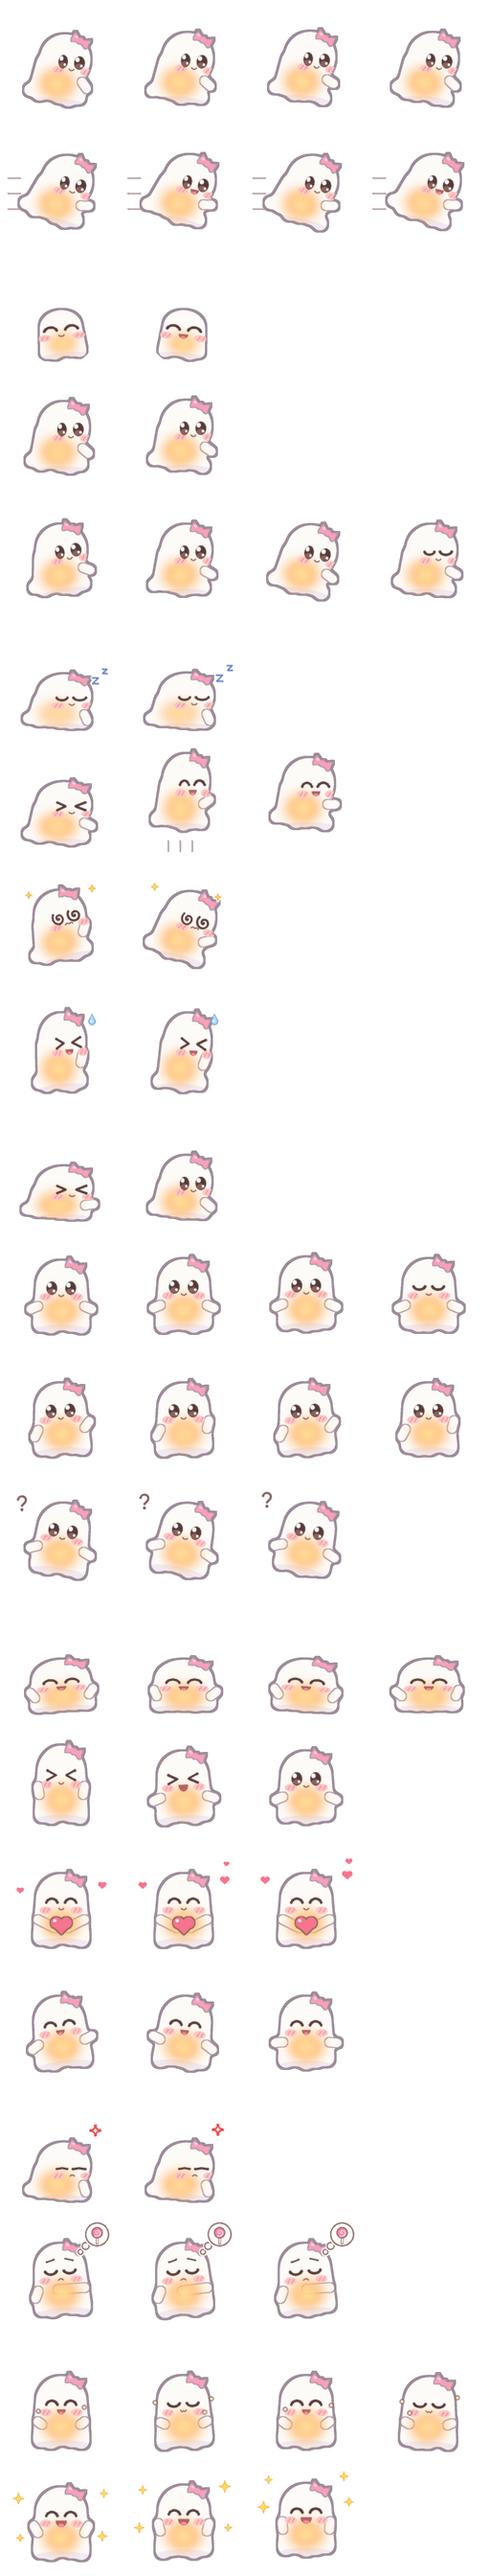
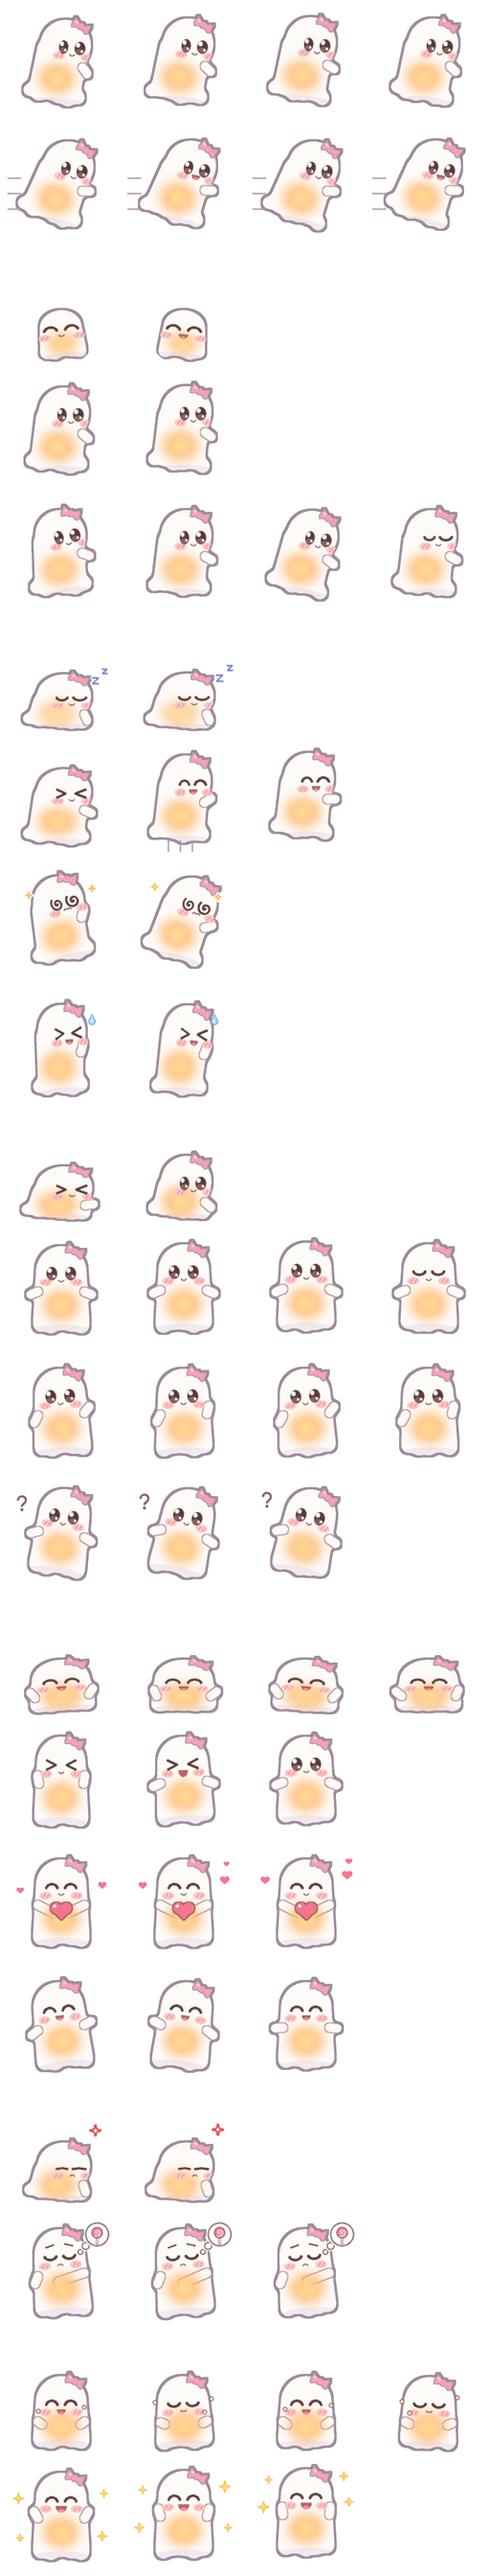
tune(art): ghost's sheet hangs a little longer
While floating, the lower sheet hangs 15 % of body height longer at every
stage (head, face, arms, glow and scale unchanged; hover foot line stays at
the same place). Resting poses and roll keep the compact skirt; eat keeps
the original length so the mouth stays over the bowl inside the cell.

Claude-Session: https://claude.ai/code/session_01QTKFeeLBUNBZhj6R6jJCZF

diff --git a/tools/draw_halloween.py b/tools/draw_halloween.py
@@ -10,6 +10,7 @@
       단계: 아기 = 잎 달린 미니 호박 → 유아 잎 + 짧은 꼭지 → 어린이 꼭지 덩굴손 → 청소년 골 깊게 + 큰 덩굴 + 잎 → 어른 작은 마녀 모자.
 유령: 반투명 우유빛 몸(알파 ≈ 0.88), 배 속의 따뜻한 주황 빛, 반짝이 두 개 큰 눈 + 볼터치 + 작은 입, 짤막한 팔, 물결치는 치맛단.
       둥실 난다 (locomotion fly, 꿀벌보다 느리게). 내려앉는 동작: sleep · annoyed · land.
+      떠 있을 때는 치마(흰 천 하단)가 몸 높이의 15%만큼 더 길게 늘어진다 (쉬는 동작은 짧게).
       단계: 아기 = 짧은 이불 덩어리 → 치마가 길어짐 → 어린이 머리 꼭지 → 청소년 → 어른 리본.
 eat에는 밥그릇이 없다 (앱의 소품 창이 그릇을 띄운다): 입이 그릇 밥 더미 바로 위 (프레임 y ≈ 84).
 """
@@ -61,6 +62,12 @@ GH_STAGE = {
     4: dict(r=29, L=47, n=5, arm=1.05, curl=False, bow=True),
 }
 GH_EYE = 1.5  # 유령 눈은 크게 (반짝이 두 개 큰 눈)
+SKIRT_LONG = 0.15  # 떠 있을 때 치마를 몸 높이(2.3r + L)의 15%만큼 더 길게 늘어뜨린다 (머리·얼굴 크기는 그대로)
+
+
+def _skirt(st):
+    """떠 있는 유령의 치마 길이 (머리 중심 → 단)."""
+    return st["L"] + SKIRT_LONG * (2.3 * st["r"] + st["L"])
 
 
 def _pk():
@@ -367,11 +374,13 @@ def gh_face(fcx, fcy, eyes, mouth, brow, side):
 
 def ghost(sp, *, side=False, bottom=None, cx=64.0, sq=(1.0, 1.0), rot=0.0, eyes="dot", mouth=None, brow=None,
           arms=None, phase=0, rest=False, trail=1.0, lit=1.0, fx=(), held=(), props=(), trim=False, size=1.0, circle=None,
-          face_dy=0.0, top=()):
+          face_dy=0.0, top=(), short=False):
     """유령 한 장. bottom: 치맛단 아래끝 y (기본: 떠 있음 112 · rest = 바닥에 내려앉음) · phase: 단 물결 ·
     trail: 옆모습 치마 뒤로 날림 · arms: [(side, 각도 | 손끝)]."""
     st = _gh()
-    r, Ln = st["r"] * size, st["L"] * size * (0.82 if rest else 1.0)
+    r = st["r"] * size
+    # 쉬는 동작·공 모양은 짧게 · short: 원래 길이 (eat — 입이 그릇 위에 고정이라 긴 치마는 칸 밖으로 나간다, 단은 그릇이 가림)
+    Ln = size * (st["L"] * 0.82 if rest else st["L"] if (trim or short) else _skirt(st))
     br = r * 0.3
     if bottom is None:
         bottom = FLOOR - 0.5 if rest else 112.0
@@ -558,8 +567,8 @@ def hop(sp, i):
             return ghost(sp, side=True, bottom=116, sq=(1.08, 0.88), eyes="tight", phase=0)
         if i == 1:
             lines = [([L([(x, 110), (x, 122)], 1.8)], SPEED, 0) for x in (46, 60, 74)]
-            return ghost(sp, side=True, bottom=100, sq=(0.92, 1.08), eyes="happy", mouth="open", arms=[(1, 120)], phase=1, fx=lines)
-        return ghost(sp, side=True, bottom=98, eyes="happy", mouth="open", arms=[(1, 90)], phase=2)
+            return ghost(sp, side=True, bottom=114, sq=(0.97, 1.02), eyes="happy", mouth="open", arms=[(1, 120)], phase=1, fx=lines)
+        return ghost(sp, side=True, bottom=109, eyes="happy", mouth="open", arms=[(1, 90)], phase=2)
     if i == 0:
         return pumpkin(sp, side=True, sq=(1.1, 0.86), eyes="tight", stem=10, feet=((-2, 0), (2, 0)), arms=[(1, 15)])
     if i == 1:
@@ -582,7 +591,7 @@ def dragged(sp, i):
     """잡혀서 대롱대롱: 호박은 꼭지를 잡혀서 · 유령은 머리 꼭대기를 잡혀서 — 발·치마가 아래로 축, 땀."""
     s = [-1, 1][i]
     if _is_ghost(sp):
-        return ghost(sp, side=True, bottom=118, sq=(0.92, 1.1), rot=4 * s, eyes="tight", mouth="open", arms=[(1, 160)], phase=i,
+        return ghost(sp, side=True, bottom=122, sq=(0.94, 1.05), rot=4 * s, eyes="tight", mouth="open", arms=[(1, 160)], phase=i,
                      trail=0.4, fx=sweat_fx(100, 34))
     return pumpkin(sp, side=True, bottom=FLOOR - 14, rot=5 * s, eyes="tight", mouth="open", stem=-4 * s,
                    feet=((-3 + 2 * s, 4), (3 + 2 * s, 5)), arms=[(1, 150)], fx=sweat_fx(104, 40))
@@ -648,7 +657,7 @@ def belly(sp, i):
 
 def stretch(sp, i):
     if i == 0:
-        return _front(sp, **_kw(sp, i, sq=(0.94, 1.08), eyes="tight", arms=[(-1, 170), (1, 170)], stem=-6))
+        return _front(sp, **_kw(sp, i, **_bob(sp, -3), sq=(0.96, 1.03) if _is_ghost(sp) else (0.94, 1.08), eyes="tight", arms=[(-1, 170), (1, 170)], stem=-6))
     if i == 1:
         return _front(sp, **_kw(sp, i, eyes="tight", mouth="yawn", arms=[(-1, 70), (1, 70)], rot=-3, stem=4))
     return _front(sp, **_kw(sp, i))
@@ -660,7 +669,7 @@ def heart(sp, i):
         hs.append(heart_fx(114, 18 - 3 * i, 2.6 + 0.6 * i))
     if _is_ghost(sp):
         st = _gh()
-        hy = 112 - st["r"] * 0.3 - st["L"] + min(st["r"] * 0.95, st["L"] - 9)  # 아기는 치마가 짧아 조금 위로
+        hy = 112 - st["r"] * 0.3 - _skirt(st) + min(st["r"] * 0.95, st["L"] - 9)  # 아기는 치마가 짧아 조금 위로
         return ghost(sp, eyes="happy", phase=i, top=_heart_items(64, hy, 0.9),
                      arms=[(-1, (56, hy + 6)), (1, (72, hy + 6))], fx=hs)
     st = _pk()
@@ -678,9 +687,9 @@ def hungry(sp, i):
     dx, dy = [(-2, 0), (0, 2), (2, 0)][i]
     if _is_ghost(sp):
         st = _gh()
-        cy = 112 - st["r"] * 0.3 - st["L"]
+        cy = 114 - st["r"] * 0.3 - _skirt(st)
         return ghost(sp, bottom=114, rot=-4, eyes="closed", mouth="frown", brow="sad", phase=i,
-                     arms=[(-1, 25), (1, (62 + dx, cy + st["L"] * 0.55 + dy))], fx=lolly_bubble_fx(106, 18))
+                     arms=[(-1, 25), (1, (62 + dx, cy + _skirt(st) * 0.5 + dy))], fx=lolly_bubble_fx(106, 18))
     st = _pk()
     cy = FLOOR - 6 - st["ry"]
     return pumpkin(sp, rot=-4, eyes="closed", mouth="frown", brow="sad", lit=0.75, stem=-10,
@@ -703,7 +712,7 @@ def eat(sp, i):
         st = _gh()
         cy = my - 10 * fs - 2  # 입 = 얼굴 중심 + 10·fs
         bottom = cy + st["L"] + st["r"] * 0.3
-        return ghost(sp, bottom=bottom, eyes=eyes, mouth=mouth, phase=i, rot=[0, -2, 0, 2][i],
+        return ghost(sp, bottom=bottom, short=True, eyes=eyes, mouth=mouth, phase=i, rot=[0, -2, 0, 2][i],
                      arms=[(-1, paws[0]), (1, paws[1])], fx=fx)
     st = _pk()
     fy = my - 9 * fs

diff --git a/tools/test_draw_halloween.py b/tools/test_draw_halloween.py
@@ -162,3 +162,12 @@ def test_roll_ball_fits_rotation_circle(out):
                     for x in range(FRAME):
                         if a[x, y][3] > 0:
                             assert math.hypot(x + 0.5 - cx, y + 0.5 - cy) <= ROLL_RADIUS + 0.5, (pid, st, c, x, y)
+
+
+def test_floating_ghost_sheet_hangs_longer_but_head_keeps_its_size():
+    """떠 있을 때 흰 천 하단이 몸 높이의 12–18%만큼 더 길다 (머리 반지름은 그대로)."""
+    for lvl, st in draw_halloween.GH_STAGE.items():
+        height = 2.3 * st["r"] + st["L"]
+        extra = draw_halloween._skirt(st) - st["L"]
+        assert 0.12 * height <= extra <= 0.18 * height, (lvl, extra, height)
+    assert [st["r"] for st in draw_halloween.GH_STAGE.values()] == [30, 30, 29.5, 29, 29]
